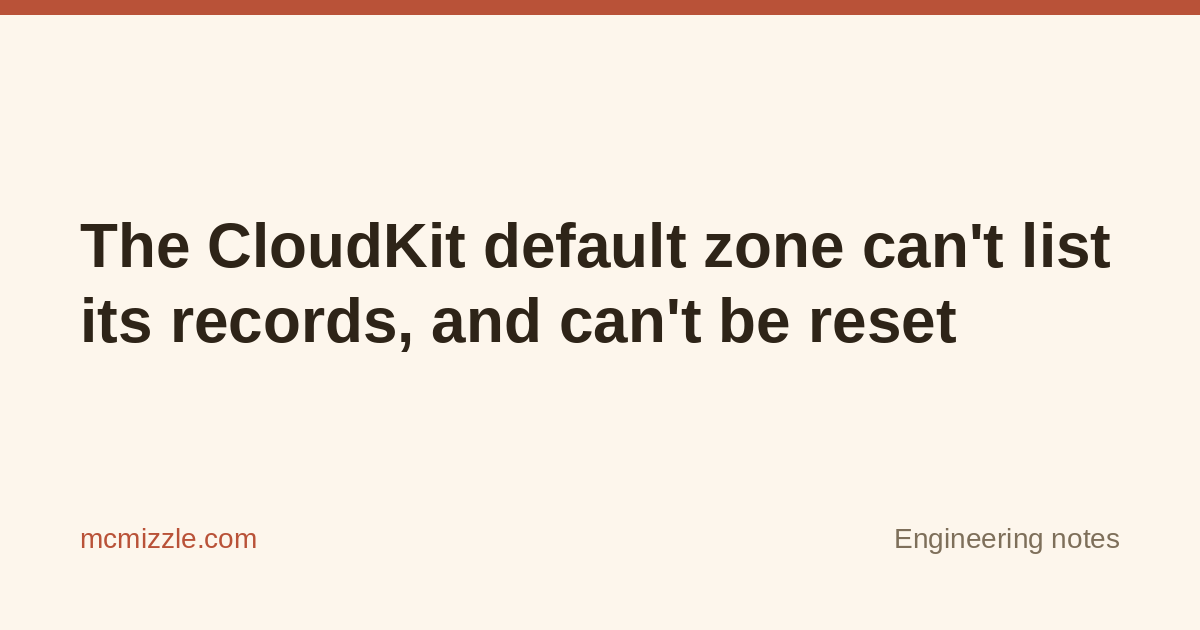
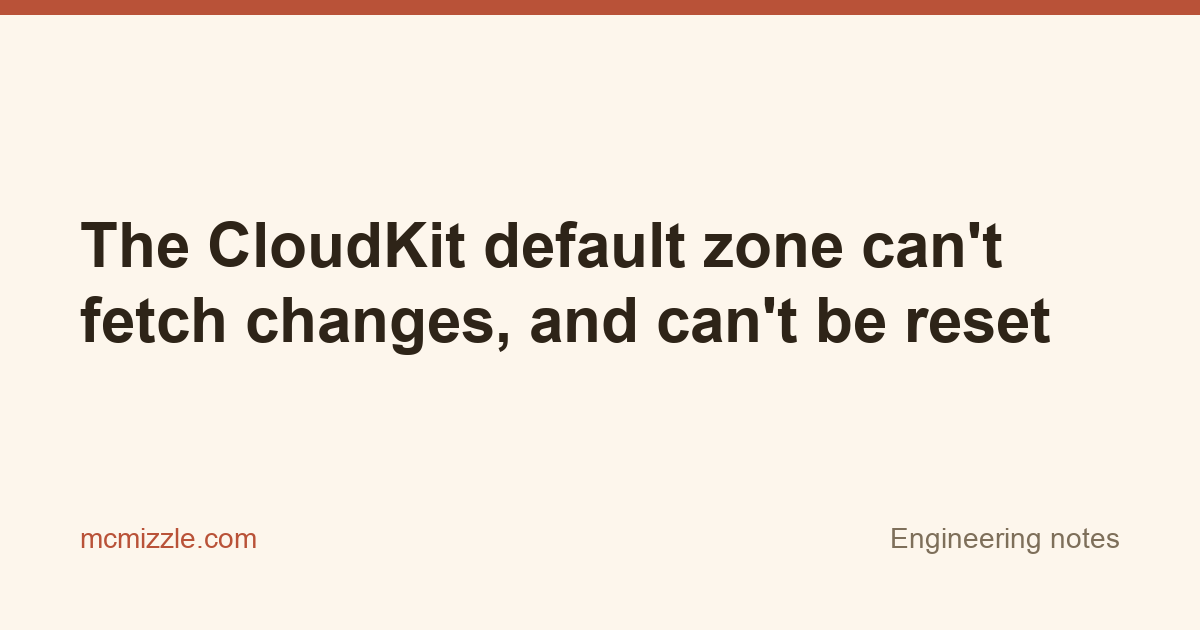
Sync from source@b379c53
CloudKit post: retitle to what the default zone can't do (POST-19) (#218)

"Can't list its records" overclaimed: a query lists them once recordName
is indexed, in any zone. The default zone's real limits are no fetchChanges
and no zone reset, which is what the closing section says.

diff --git a/blog/cloudkit-default-zone-limits/index.html b/blog/cloudkit-default-zone-limits/index.html
@@ -3,8 +3,8 @@
 <head>
 <meta charset="UTF-8">
 <meta name="viewport" content="width=device-width, initial-scale=1">
-<title>The CloudKit default zone can't list its records, and can't be reset — McMizzle</title>
-<meta name="description" content="Two CloudKit errors with one cause: the private database's default zone. The usual fix for one breaks in production, and the other breaks recovery.">
+<title>The CloudKit default zone can't fetch changes, and can't be reset — McMizzle</title>
+<meta name="description" content="Two CloudKit errors that led back to one choice: the private database's default zone. The usual fix for one breaks in production, and the other breaks recovery.">
 <link rel="canonical" href="https://mcmizzle.com/blog/cloudkit-default-zone-limits/">
 <link rel="alternate" type="application/rss+xml" title="McMizzle Blog" href="https://mcmizzle.com/blog/feed.xml">
 <link rel="icon" type="image/png" sizes="32x32" href="/assets/favicon.png">
@@ -14,8 +14,8 @@
 <meta name="theme-color" media="(prefers-color-scheme: dark)" content="#201a13">
 <meta property="og:type" content="article">
 <meta property="og:url" content="https://mcmizzle.com/blog/cloudkit-default-zone-limits/">
-<meta property="og:title" content="The CloudKit default zone can't list its records, and can't be reset — McMizzle">
-<meta property="og:description" content="Two CloudKit errors with one cause: the private database's default zone. The usual fix for one breaks in production, and the other breaks recovery.">
+<meta property="og:title" content="The CloudKit default zone can't fetch changes, and can't be reset — McMizzle">
+<meta property="og:description" content="Two CloudKit errors that led back to one choice: the private database's default zone. The usual fix for one breaks in production, and the other breaks recovery.">
 <meta property="og:image" content="https://mcmizzle.com/assets/og-cloudkit-default-zone-limits.png">
 <meta property="article:published_time" content="2026-10-06">
 <meta name="twitter:card" content="summary_large_image">
@@ -25,7 +25,7 @@
 <header class="site-header"><a class="home-link" href="/">McMizzle</a></header>
 <main>
 <article class="post">
-  <h1>The CloudKit default zone can't list its records, and can't be reset</h1>
+  <h1>The CloudKit default zone can't fetch changes, and can't be reset</h1>
   <p class="post-meta">Kevin McMahon · October 6, 2026</p>
 
   <p>

diff --git a/blog/index.html b/blog/index.html
@@ -97,7 +97,7 @@
     </li>
     <li>
       <p class="post-meta">October 6, 2026</p>
-      <span class="post-title"><a href="/blog/cloudkit-default-zone-limits/">The CloudKit default zone can't list its records, and can't be reset</a></span>
+      <span class="post-title"><a href="/blog/cloudkit-default-zone-limits/">The CloudKit default zone can't fetch changes, and can't be reset</a></span>
       <p class="post-summary">
         <code>Field 'recordName' is not marked queryable</code>, then
         <code>AppDefaultZone does not support getChanges call</code>, then a
